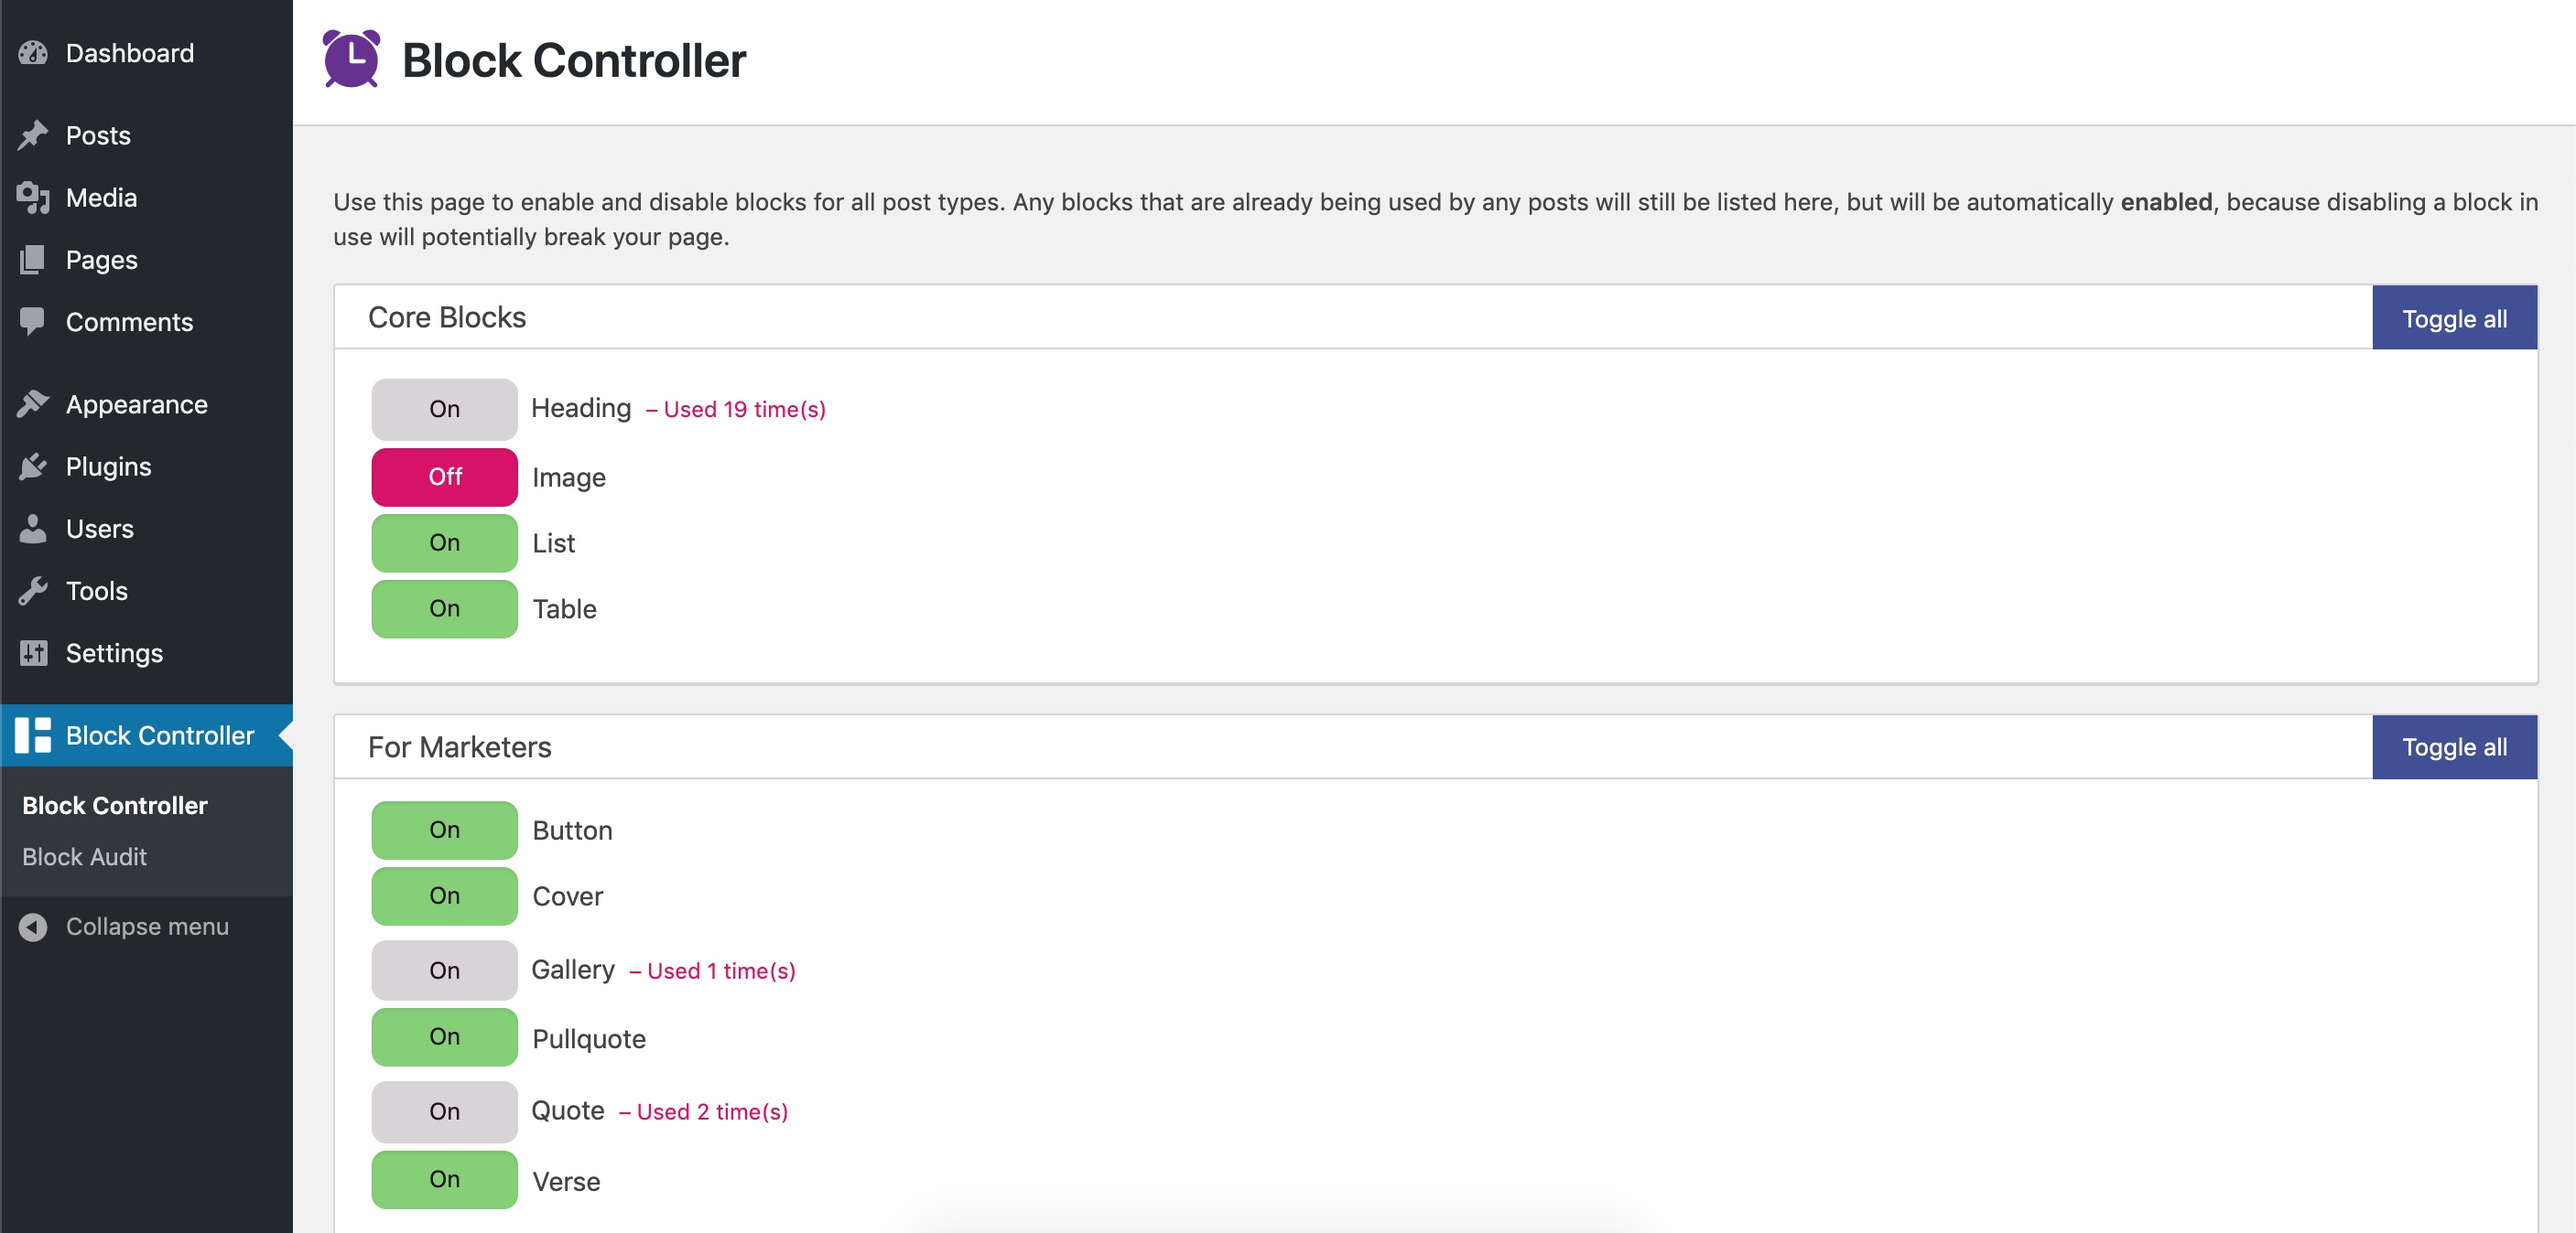
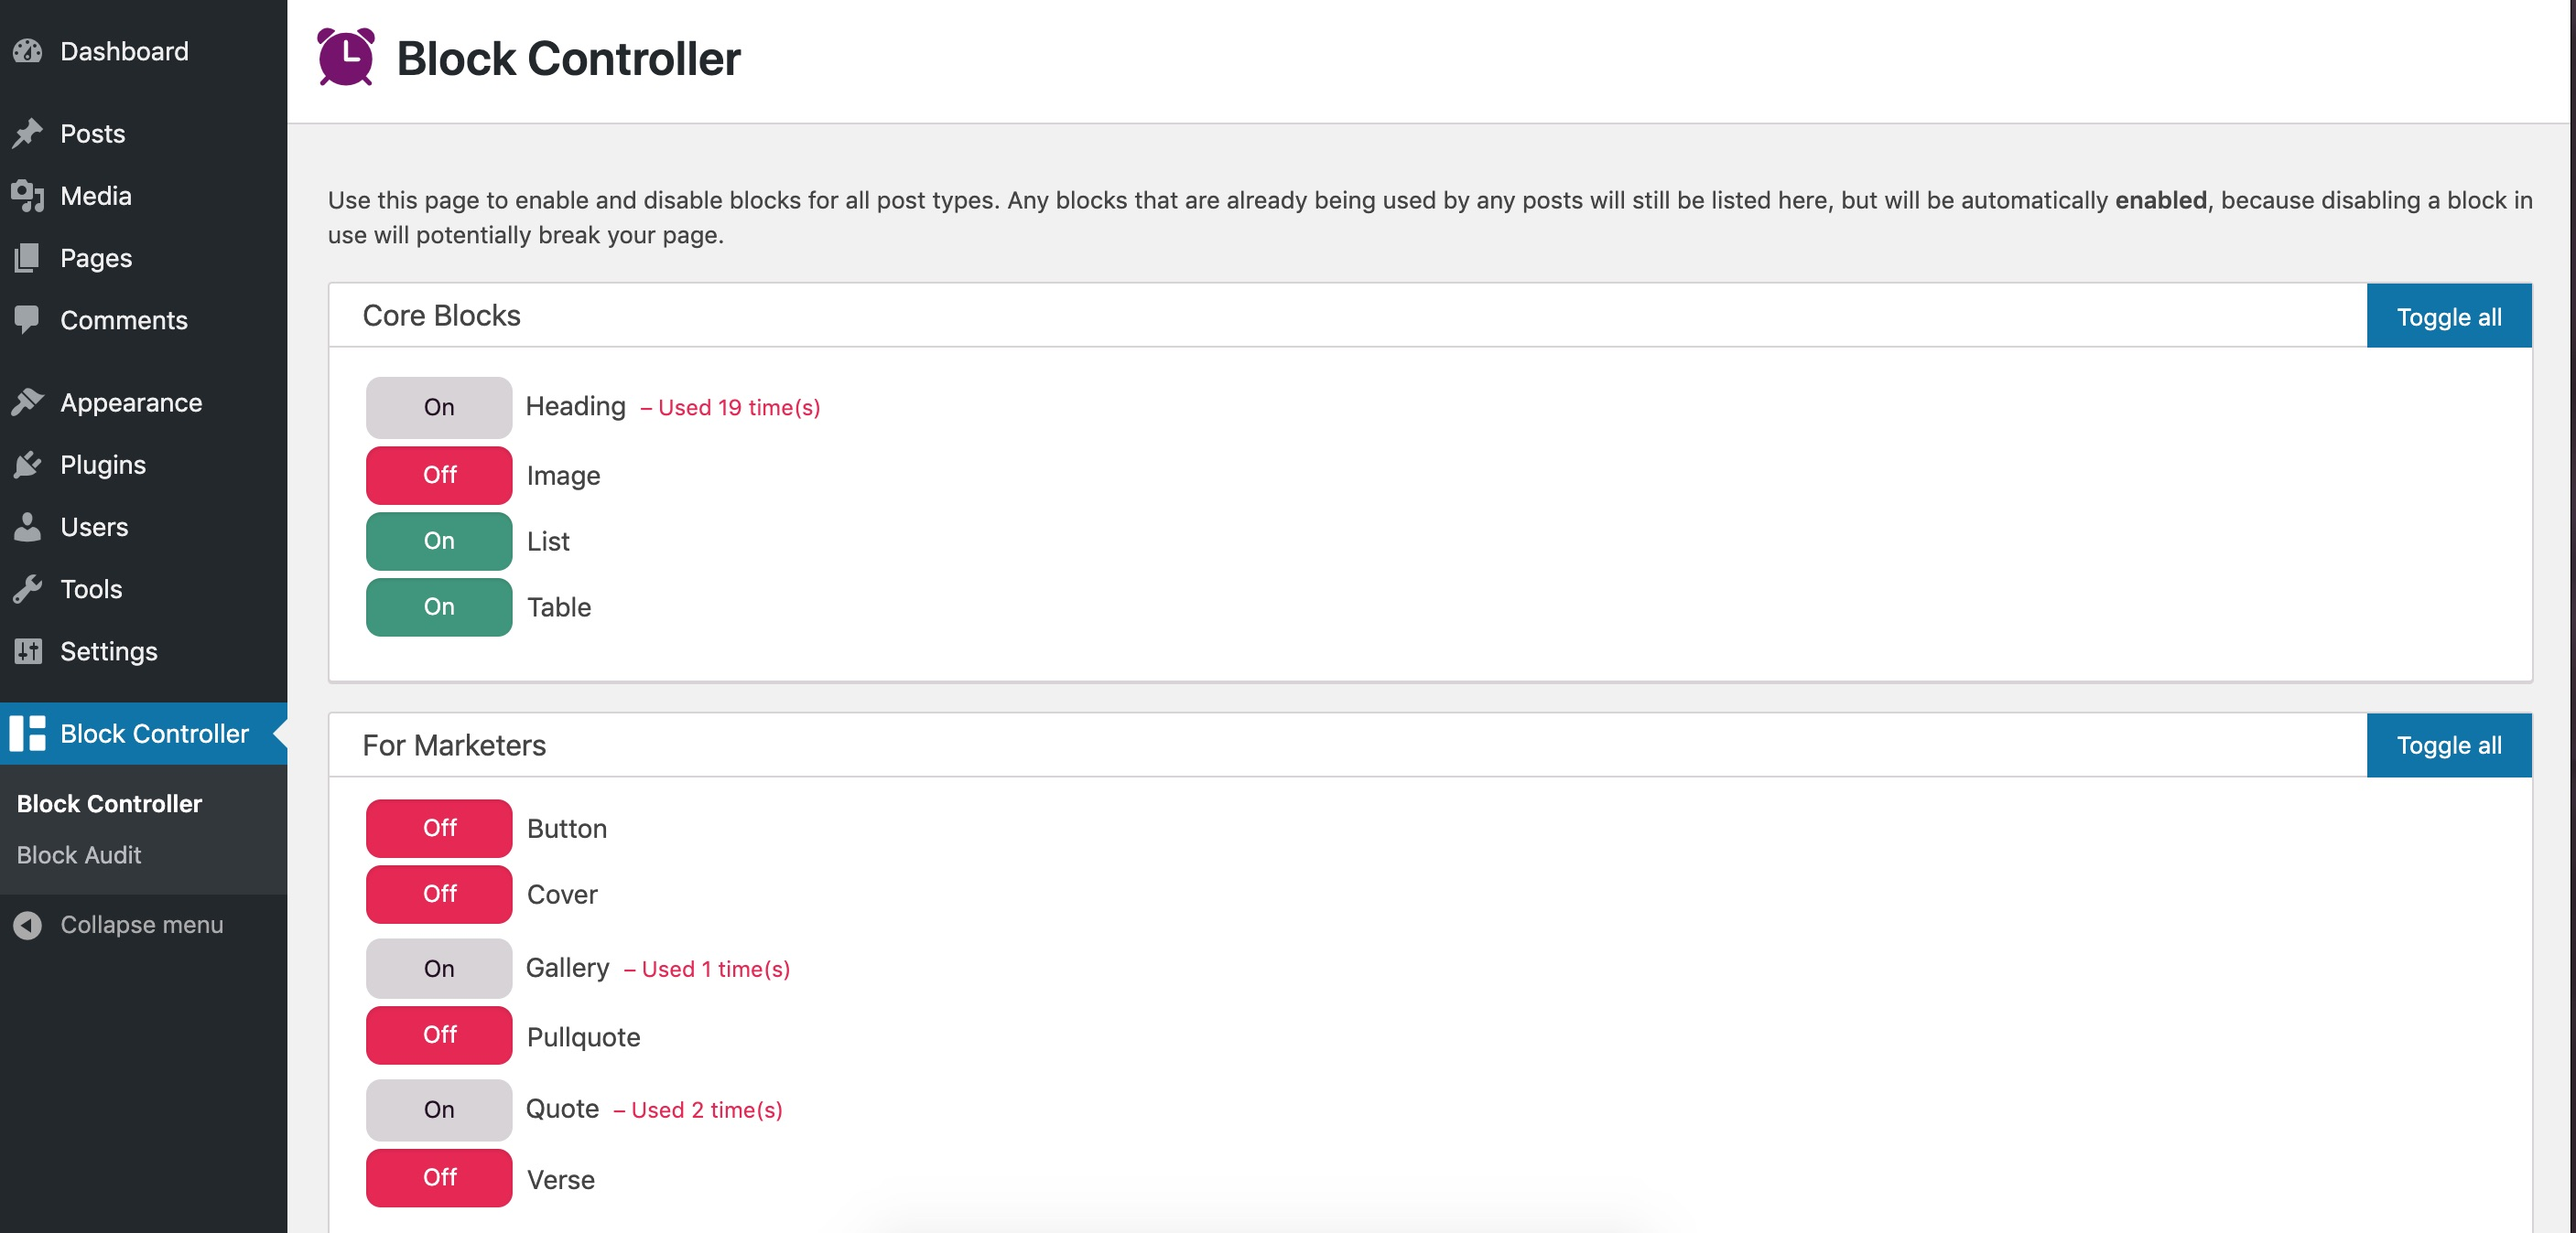
Updating colors

diff --git a/threepm-block-controller/build/block-controller.min.css b/threepm-block-controller/build/block-controller.min.css
@@ -1,1 +1,1 @@
-#block-controller-settings input[type=submit]{background-color:#5463b5;border-color:#313b72;border-radius:.1rem;padding:.25rem .75rem}#block-controller-settings input[type=submit]:focus,#block-controller-settings input[type=submit]:hover{background-color:#404d96}.block-controller-package .toggle-all{background-color:#404d96;border:0;color:#fff;cursor:pointer;padding:.6rem 1rem;position:absolute;right:0;top:0}.block-controller-package .toggle-all:focus,.block-controller-package .toggle-all:hover{background-color:#5463b5}.block-controller-package input[type=checkbox]{border:0;border-radius:.5rem;color:#fff;height:2rem;width:5rem}.block-controller-package input[type=checkbox]:before{content:''}.block-controller-package input[type=checkbox]:after{display:block;font-size:.8rem;padding:1rem}.block-controller-package input[type=checkbox]:not(:checked){background-color:#82d173;color:#231123}.block-controller-package input[type=checkbox]:not(:checked)::after{content:'On'}.block-controller-package input[type=checkbox]:not(:checked):focus,.block-controller-package input[type=checkbox]:not(:checked):hover{background-color:#60c44d}.block-controller-package input[type=checkbox]:checked{background-color:#d90368}.block-controller-package input[type=checkbox]:checked::after{content:'Off'}.block-controller-package input[type=checkbox]:checked:focus,.block-controller-package input[type=checkbox]:checked:hover{background-color:#a70250}.block-controller-package .required{border:0;border-radius:.5rem;color:#fff;height:2rem;width:5rem;background-color:#d7d3d7;color:#231123;display:inline-block;font-size:.8rem;height:1.6rem;margin-right:.2rem;padding-top:.5rem;text-align:center}.block-controller-package .required:before{content:''}.block-controller-package .required:after{display:block;font-size:.8rem;padding:1rem}.threepm-header{background-color:#fff;border-bottom:1px solid #d7d3d7;margin-bottom:2rem;margin-left:-1.25rem;padding:1rem}.threepm-header img.logo{height:2rem;margin-right:.5rem}.threepm-header h1{display:inline;position:relative;top:-.35rem}.block-controller-package{background:#fff;border:1px solid #d7d3d7;border-radius:.15rem;box-shadow:#d7d3d7 0 1px;margin:1rem 0}.block-controller-package .heading{border-bottom:1px solid #d7d3d7;padding:.5rem 1rem;position:relative}.block-controller-package .heading legend{font-size:1rem}.block-controller-package .options{padding:1rem}.block-controller-package .options label{cursor:default;display:block;font-size:.9rem;margin-bottom:.5rem;margin-left:.25rem}.block-controller-package .options .count{color:#d90368;display:inline-block;font-size:.75rem;margin-left:.25rem}
+#block-controller-settings input[type=submit]{background-color:#0073aa;border-color:#0073aa;border-radius:.1rem;padding:.25rem .75rem}#block-controller-settings input[type=submit]:focus,#block-controller-settings input[type=submit]:hover{background-color:#005177}.block-controller-package .toggle-all{background-color:#0073aa;border:0;color:#fff;cursor:pointer;padding:.6rem 1rem;position:absolute;right:0;top:0}.block-controller-package .toggle-all:focus,.block-controller-package .toggle-all:hover{background-color:#005177}.block-controller-package input[type=checkbox]{border:0;border-radius:.5rem;color:#fff;height:2rem;width:5rem}.block-controller-package input[type=checkbox]:before{content:''}.block-controller-package input[type=checkbox]:after{display:block;font-size:.8rem;padding:1rem}.block-controller-package input[type=checkbox]:not(:checked){background-color:#3c967b}.block-controller-package input[type=checkbox]:not(:checked)::after{content:'On'}.block-controller-package input[type=checkbox]:not(:checked):focus,.block-controller-package input[type=checkbox]:not(:checked):hover{background-color:#2d725d}.block-controller-package input[type=checkbox]:checked{background-color:#e72351}.block-controller-package input[type=checkbox]:checked::after{content:'Off'}.block-controller-package input[type=checkbox]:checked:focus,.block-controller-package input[type=checkbox]:checked:hover{background-color:#c2153e}.block-controller-package .required{border:0;border-radius:.5rem;color:#fff;height:2rem;width:5rem;background-color:#d7d3d7;color:#231123;display:inline-block;font-size:.8rem;height:1.6rem;margin-right:.2rem;padding-top:.5rem;text-align:center}.block-controller-package .required:before{content:''}.block-controller-package .required:after{display:block;font-size:.8rem;padding:1rem}.threepm-header{background-color:#fff;border-bottom:1px solid #d7d3d7;margin-bottom:2rem;margin-left:-1.25rem;padding:1rem}.threepm-header img.logo{height:2rem;margin-right:.5rem}.threepm-header h1{display:inline;position:relative;top:-.35rem}.block-controller-package{background:#fff;border:1px solid #d7d3d7;border-radius:.15rem;box-shadow:#d7d3d7 0 1px;margin:1rem 0}.block-controller-package .heading{border-bottom:1px solid #d7d3d7;padding:.5rem 1rem;position:relative}.block-controller-package .heading legend{font-size:1rem}.block-controller-package .options{padding:1rem}.block-controller-package .options label{cursor:default;display:block;font-size:.9rem;margin-bottom:.5rem;margin-left:.25rem}.block-controller-package .options .count{color:#e72351;display:inline-block;font-size:.75rem;margin-left:.25rem}

diff --git a/threepm-block-controller/source/scss/components/_buttons.scss b/threepm-block-controller/source/scss/components/_buttons.scss
@@ -5,14 +5,14 @@
 // Submit.
 #block-controller-settings {
   input[type='submit'] {
-    background-color: lighten( $blue, 20% );
+    background-color: $blue;
     border-color: $blue;
     border-radius: 0.1rem;
     padding: 0.25rem 0.75rem;
 
     &:hover,
     &:focus {
-      background-color: lighten( $blue, 10% );
+      background-color: darken( $blue, 10% );
     }
   }
 }
@@ -20,7 +20,7 @@
 // Toggle all.
 .block-controller-package {
   .toggle-all {
-    background-color: lighten( $blue, 10% );
+    background-color: $blue;
     border: 0;
     color: $white;
     cursor: pointer;
@@ -31,7 +31,7 @@
 
     &:hover,
     &:focus {
-      background-color: lighten( $blue, 20% );
+      background-color: darken( $blue, 10% );
     }
   }
 }

diff --git a/threepm-block-controller/source/scss/global/_colors.scss b/threepm-block-controller/source/scss/global/_colors.scss
@@ -6,7 +6,7 @@ $black:   #231123;
 $white:   #fff;
 $gray:    #d7d3d7;
 
-$red:     #d90368;
-$green:   #82d173;
-$purple:  #662c91;
-$blue:    #313b72;
+$red:     #e72351;
+$green:   #3c967b;
+$purple:  #770a6e;
+$blue:    #0073aa;

diff --git a/threepm-block-controller/source/scss/components/_checkboxes.scss b/threepm-block-controller/source/scss/components/_checkboxes.scss
@@ -36,7 +36,6 @@
     // If a checkbox is not checked, then that block is enabled.
     &:not( :checked ) {
       background-color: $green;
-      color: $black;
 
       &::after {
         content: 'On';
